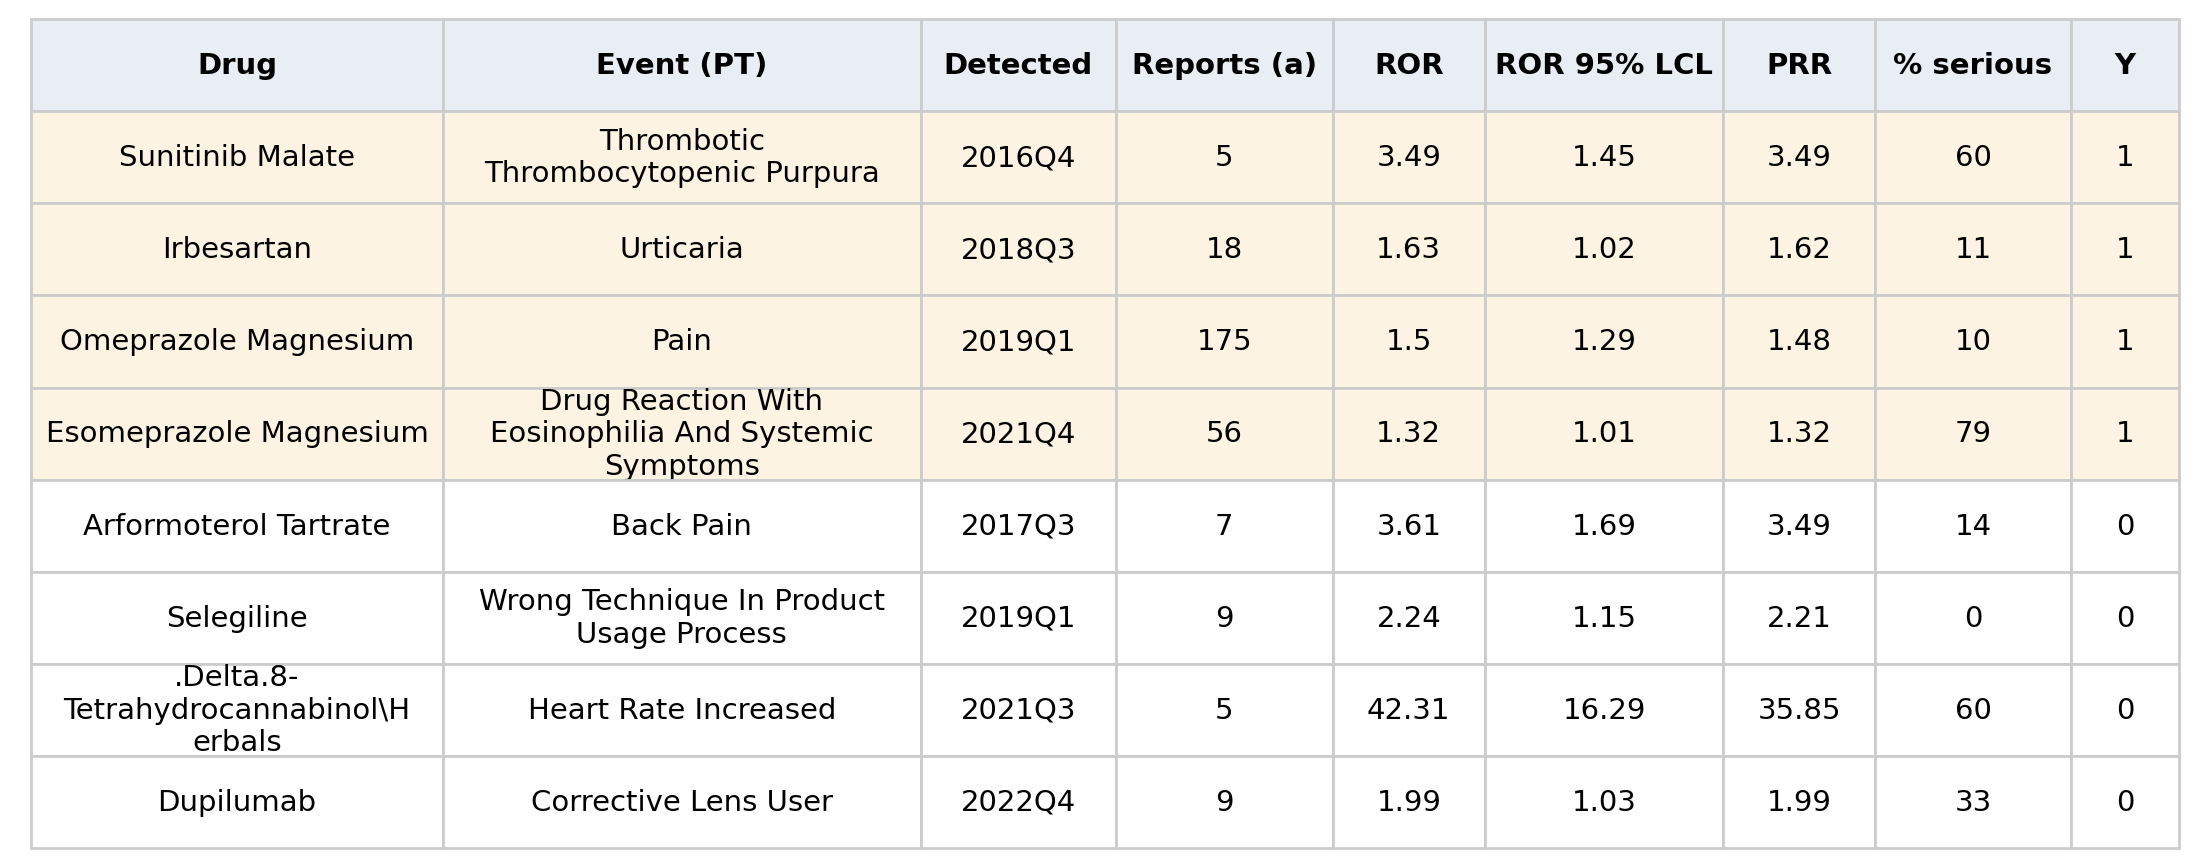
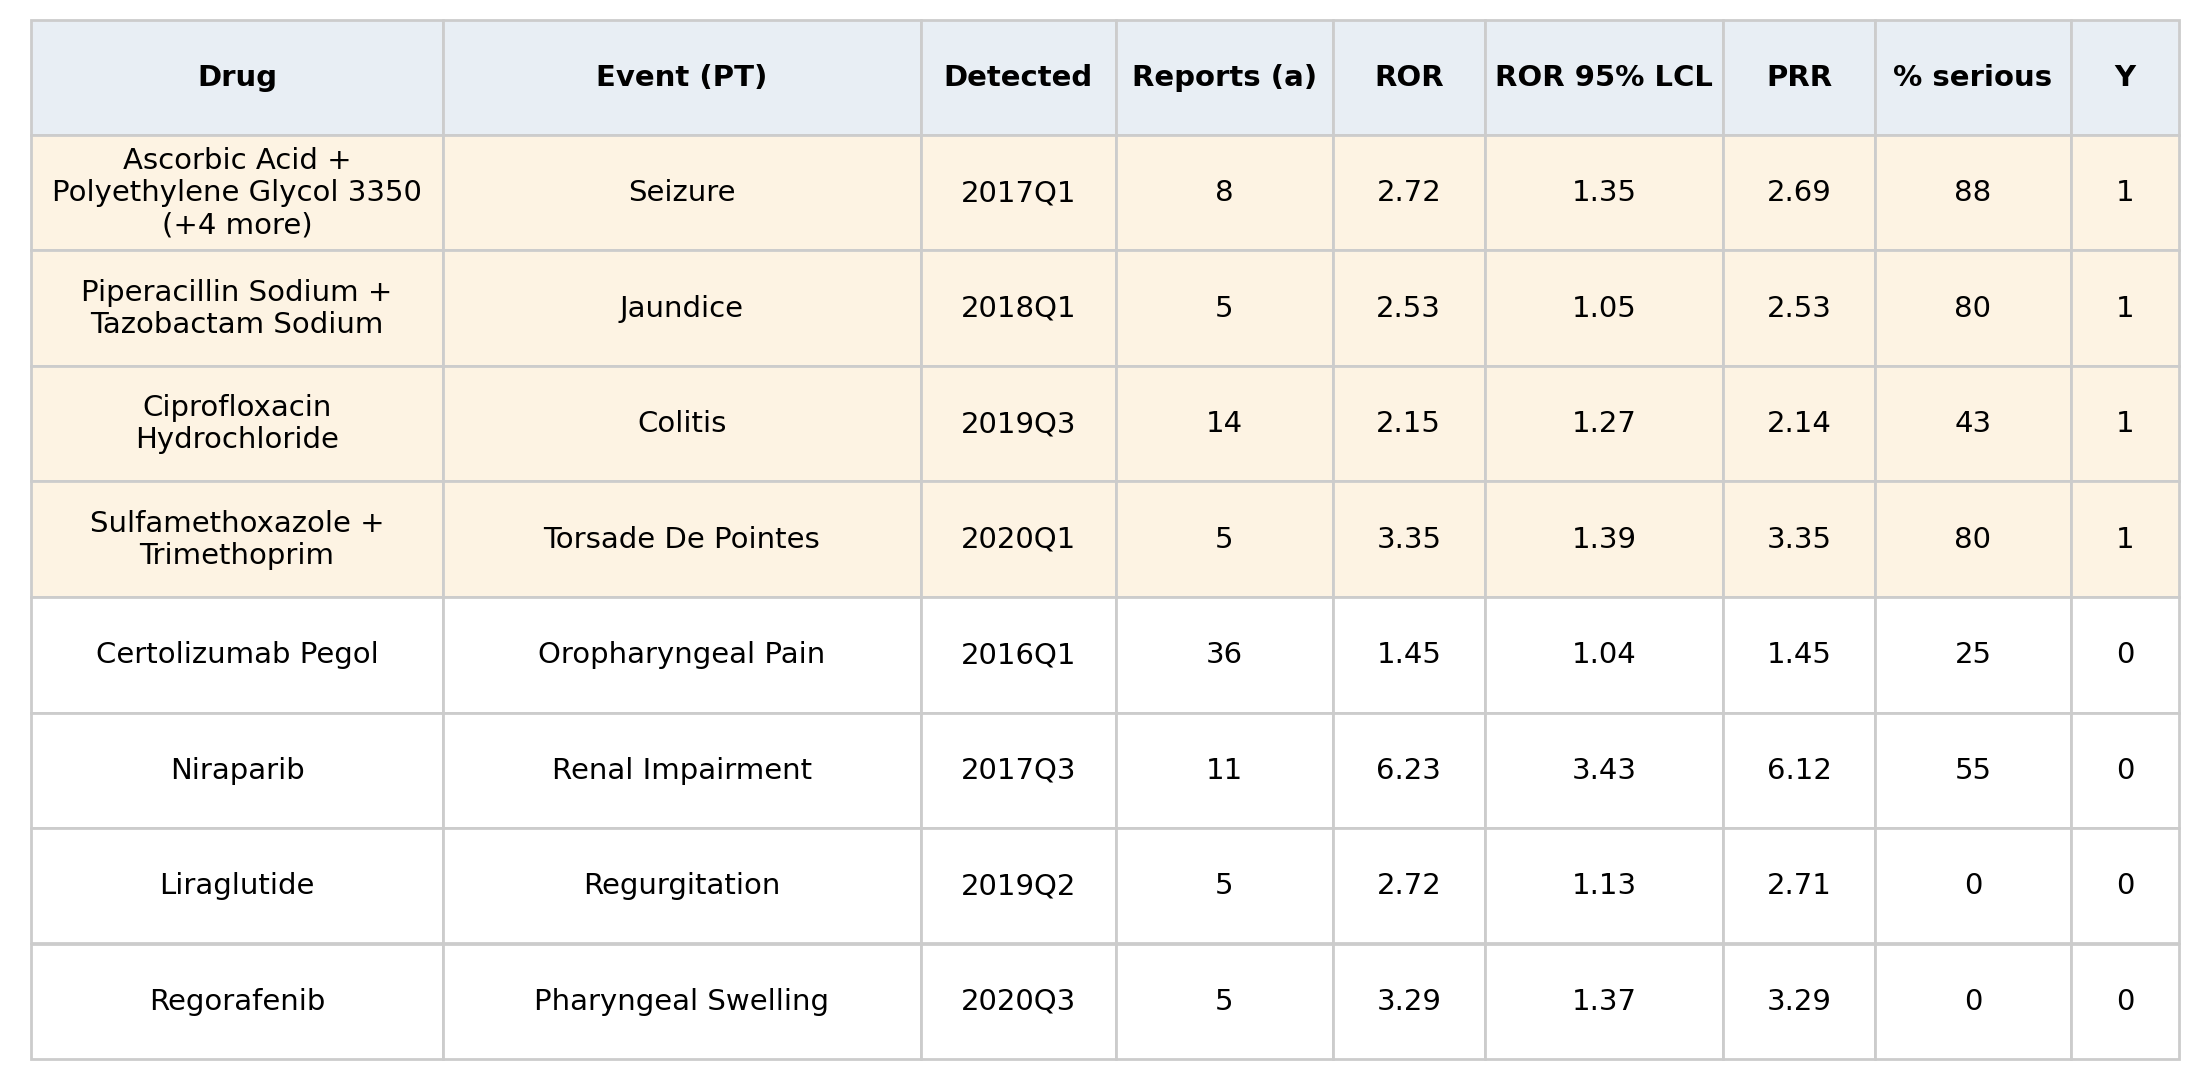
Evidence for prevalent labelling, and a clinical-only slide sample
Traced SELINEXOR + PNEUMONIA after an adviser doubted it. The timing rule
is correct: the confirming change is 445 days after detection and the drug
has no earlier SrLC change. But DailyMed version 1 of XPOVIO, effectiveTime
2019-07-11 and so before detection, already reads "5.5 Infections ...
pneumonia in 13%". The 2020 change only updated the frequencies.

SrLC records changes, not the standing label, so a pair whose event was
already listed can still score as confirmed. That is the Phase B
prevalent-label problem with a worked example attached (decision 66).

Sample export now excludes product-use and circumstance PTs, which carry
15,589 signals at a 0.071% confirmation rate against 1.228% for clinical
terms, and renders combination products with " + " instead of a backslash,
shortening names past two ingredients. Cohort-level exclusion is NOT yet
applied (decision 67).

diff --git a/scripts/export_sample_rows.py b/scripts/export_sample_rows.py
@@ -19,6 +19,18 @@ P = ROOT / "data/processed"
 FIG = ROOT / "figures"; FIG.mkdir(exist_ok=True)
 RES = ROOT / "results"; RES.mkdir(exist_ok=True)
 SEED, MIN_A, N_PER = 42, 5, 4
+# Product-use and circumstance PTs are valid MedDRA terms but are not adverse effects, and they
+# almost never attract a label change: 320 such terms carry 15,589 signals at a 0.071% confirmation
+# rate against 1.228% for clinical terms. They are excluded from the SAMPLE here; excluding them
+# from the dataset is a separate decision. Keyword based, because the processed tables carry PT
+# strings only and the MedDRA hierarchy (which would give the Product Issues and Social
+# Circumstances SOCs directly) is a licensed file this project does not have.
+NON_CLINICAL = (r"PRODUCT USE|OFF LABEL|DRUG INEFFECTIVE|WRONG |INCORRECT |ACCIDENTAL |DEVICE |"
+                r"USER$|THERAPY |NO ADVERSE EVENT|DOSE OMI|EXPIRED PRODUCT|UNDERDOSE|"
+                r"PRODUCT QUALITY|PRODUCT SUBSTITUT|MEDICATION ERROR|TREATMENT NONCOMP|"
+                r"INTERCEPTED|PRESCRIBED|DISPENSING|LABEL|CONTRAINDICATED PRODUCT|"
+                r"PRODUCT PREPARATION|PRODUCT STORAGE|UNEVALUABLE|SOCIAL |CIRCUMSTANCE|"
+                r"TEST ABNORMAL|INVESTIGATION")
 Y = "confirmed_event_3y"
 
 con = duckdb.connect()
@@ -42,9 +54,18 @@ checks = dict(
                              "table and no Drugs@FDA or other approval source has been collected")
 
 # ---------------------------------------------------------------- sample
-pool = f[f.a >= MIN_A].copy()
+pool = f[(f.a >= MIN_A) & (~f.pt_clean.str.upper().str.contains(NON_CLINICAL, regex=True))].copy()
 pool["year"] = pool.detection_quarter.str[:4]
 rng = np.random.default_rng(SEED)
+
+
+def short_drug(name, max_parts=2):
+    """FAERS writes combinations with a backslash. Render as " + ", and keep long multi-ingredient
+    products from overflowing their cell by naming the first two and counting the rest."""
+    parts = [p.strip().title() for p in name.split("\\") if p.strip()]
+    if len(parts) <= max_parts:
+        return " + ".join(parts)
+    return " + ".join(parts[:max_parts]) + f" (+{len(parts) - max_parts} more)"
 
 
 def pick(df, n):
@@ -68,7 +89,7 @@ samp = pd.concat([pick(pool[pool[Y] == 1], N_PER), pick(pool[pool[Y] == 0], N_PE
 samp = samp.sort_values([Y, "detection_quarter"], ascending=[False, True]).reset_index(drop=True)
 
 tbl = pd.DataFrame({
-    "Drug": samp.drug_ai.str.title(),
+    "Drug": samp.drug_ai.map(short_drug),
     "Event (PT)": samp.pt_clean.str.title(),
     "Detected": samp.detection_quarter,
     "Reports (a)": samp.a.astype(int),
@@ -95,18 +116,18 @@ import textwrap
 
 disp = tbl.copy()
 # Long drug and event names overflow their cell and collide with neighbours, so wrap them.
-disp["Drug"] = [textwrap.fill(v, 22) for v in disp["Drug"]]
+disp["Drug"] = [textwrap.fill(v, 24) for v in disp["Drug"]]
 disp["Event (PT)"] = [textwrap.fill(v, 26) for v in disp["Event (PT)"]]
 widths = [0.19, 0.22, 0.09, 0.10, 0.07, 0.11, 0.07, 0.09, 0.05]
 
-fig, ax = plt.subplots(figsize=(14, 4.6))
+fig, ax = plt.subplots(figsize=(14, 5.0))
 ax.axis("off")
 t = ax.table(cellText=disp.astype(str).values, colLabels=disp.columns,
              colWidths=widths, cellLoc="center", loc="center")
 t.auto_set_font_size(False); t.set_fontsize(10.5)
 for (r, c), cell in t.get_celld().items():
     cell.set_edgecolor("#cccccc")
-    cell.set_height(0.13)
+    cell.set_height(0.15)
     if r == 0:
         cell.set_facecolor("#e8eef4"); cell.set_text_props(weight="bold")
     elif tbl.iloc[r - 1]["Y"] == 1:
@@ -141,6 +162,8 @@ for i, r in samp.iterrows():
                           ok=not issues, issues=issues))
 checks["row_checks"] = rowchecks
 checks["seed"] = SEED
+checks["sample_excludes_non_clinical_pts"] = True
+checks["pool_rows_after_filters"] = int(len(pool))
 (RES / "sample_rows_checks.json").write_text(json.dumps(checks, indent=1, default=str))
 
 print(json.dumps({k: v for k, v in checks.items() if k not in ("columns", "row_checks")}, indent=1, default=str))

diff --git a/DECISIONS.md b/DECISIONS.md
@@ -121,6 +121,12 @@ withdrawn rather than deleted, so the report can say what was tried and why it i
 |---|---|---|
 | 65 | A label may only confirm a pair if it describes the SAME product | Found by tracing a row an adviser flagged as implausible: OMEPRAZOLE MAGNESIUM + PAIN was confirmed by a ZEGERID label, ZEGERID being omeprazole plus sodium bicarbonate. Two causes. First, `comps()` strips salt words and the salt list contains both SODIUM and BICARBONATE, so the component "SODIUM BICARBONATE", a real active ingredient, normalised to nothing and a two-ingredient product looked like plain omeprazole. A component is now never allowed to vanish: if stripping empties it, the unstripped form is kept. Second, the `component_any` match level matched a single-ingredient drug to any label merely containing that ingredient. Matching now requires equal component sets AND equal component counts, and `component_any` is removed. Measured before the fix: 763 of 4,285 positives (17.8%) had all their matches from a different-component product. Actual cost of the fix: 369 positives (8.6%), because many of those pairs also had a legitimate same-product match. T1 event positives 4,285 -> 3,916 (1.08%), T2 3,876 -> 3,534, T3 4,066 -> 3,752. Label rows mapped 56,990 -> 39,320 over 2,438 -> 2,074 drugs. Results before the fix are archived unmodified in `results/v2_pre_combo_fix/`. |
 
+### Prevalent-label evidence and sample presentation (2026-11-14)
+| # | Topic | Decision |
+|---|---|---|
+| 66 | The "change after detection" rule is correct but not sufficient | An adviser doubted SELINEXOR + PNEUMONIA (detected 2019Q3, confirmed 2020-12-18). The timing rule held: the change is 445 days after detection and the drug has no SrLC change before it. But DailyMed version 1 of XPOVIO, effectiveTime 2019-07-11 and therefore before detection, already reads "5.5 Infections ... pneumonia in 13%". The 2020 change only updated those frequencies. SrLC records CHANGES, not the standing label, so a pair whose event was already listed at detection can still be scored as confirmed. This is direct evidence for the Phase B prevalent-label exclusion and is the clearest worked example of it. Until Phase B runs, `confirmed_event` includes an unknown number of such cases. |
+| 67 | Non-clinical PTs excluded from the presentation sample, not yet from the cohort | Product-use and circumstance PTs (PRODUCT USE IN UNAPPROVED INDICATION, DRUG INEFFECTIVE, OFF LABEL USE, PRODUCT SUBSTITUTION and similar) are valid MedDRA terms but are not adverse effects. 320 such terms carry 15,589 signals at a 0.071% confirmation rate, against 1.228% for the other 13,790 terms, a 17-fold difference. They are filtered out of `scripts/export_sample_rows.py` so slide examples are clinical. Excluding them from the cohort is a larger change that would rebuild features and models, and is not yet made. The filter is keyword based: the processed tables carry PT strings only, and the MedDRA hierarchy that would give the Product Issues and Social Circumstances SOCs directly is a licensed file this project does not have. |
+
 ## Limitations (for the report)
 
 - `prod_ai` is FDA-supplied and can contain combination products (7.3% of link rows) and spelling variants of one ingredient; each distinct string is one drug, so a combination and its components are different "drugs".

diff --git a/figures/sample_rows.md b/figures/sample_rows.md
@@ -1,10 +1,10 @@
 | Drug | Event (PT) | Detected | Reports (a) | ROR | ROR 95% LCL | PRR | % serious | Y |
 |---|---|---|---|---|---|---|---|---|
-| Sunitinib Malate | Thrombotic Thrombocytopenic Purpura | 2016Q4 | 5 | 3.49 | 1.45 | 3.49 | 60 | 1 |
-| Irbesartan | Urticaria | 2018Q3 | 18 | 1.63 | 1.02 | 1.62 | 11 | 1 |
-| Omeprazole Magnesium | Pain | 2019Q1 | 175 | 1.5 | 1.29 | 1.48 | 10 | 1 |
-| Esomeprazole Magnesium | Drug Reaction With Eosinophilia And Systemic Symptoms | 2021Q4 | 56 | 1.32 | 1.01 | 1.32 | 79 | 1 |
-| Arformoterol Tartrate | Back Pain | 2017Q3 | 7 | 3.61 | 1.69 | 3.49 | 14 | 0 |
-| Selegiline | Wrong Technique In Product Usage Process | 2019Q1 | 9 | 2.24 | 1.15 | 2.21 | 0 | 0 |
-| .Delta.8-Tetrahydrocannabinol\Herbals | Heart Rate Increased | 2021Q3 | 5 | 42.31 | 16.29 | 35.85 | 60 | 0 |
-| Dupilumab | Corrective Lens User | 2022Q4 | 9 | 1.99 | 1.03 | 1.99 | 33 | 0 |
+| Ascorbic Acid + Polyethylene Glycol 3350 (+4 more) | Seizure | 2017Q1 | 8 | 2.72 | 1.35 | 2.69 | 88 | 1 |
+| Piperacillin Sodium + Tazobactam Sodium | Jaundice | 2018Q1 | 5 | 2.53 | 1.05 | 2.53 | 80 | 1 |
+| Ciprofloxacin Hydrochloride | Colitis | 2019Q3 | 14 | 2.15 | 1.27 | 2.14 | 43 | 1 |
+| Sulfamethoxazole + Trimethoprim | Torsade De Pointes | 2020Q1 | 5 | 3.35 | 1.39 | 3.35 | 80 | 1 |
+| Certolizumab Pegol | Oropharyngeal Pain | 2016Q1 | 36 | 1.45 | 1.04 | 1.45 | 25 | 0 |
+| Niraparib | Renal Impairment | 2017Q3 | 11 | 6.23 | 3.43 | 6.12 | 55 | 0 |
+| Liraglutide | Regurgitation | 2019Q2 | 5 | 2.72 | 1.13 | 2.71 | 0 | 0 |
+| Regorafenib | Pharyngeal Swelling | 2020Q3 | 5 | 3.29 | 1.37 | 3.29 | 0 | 0 |
